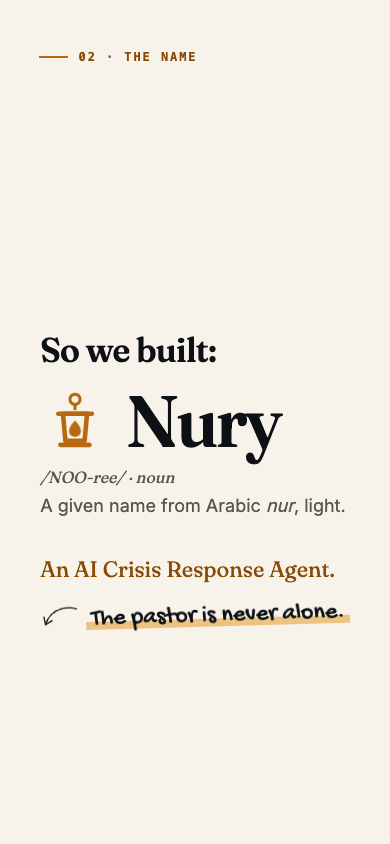
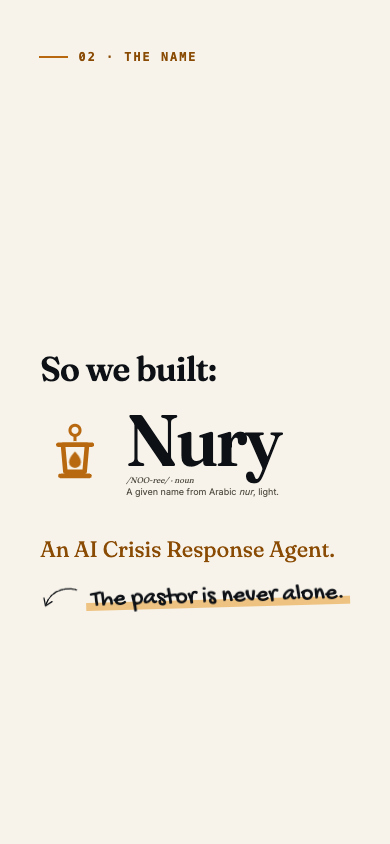
Short deck slide 2: dictionary lines 50 percent smaller, aligned under the word Nury

Changed region(s): [[0.0923, 0.4005, 0.8923, 0.7701]]

diff --git a/presentation/short/deck.html b/presentation/short/deck.html
@@ -175,8 +175,8 @@ body.clean .foot{visibility:hidden}@media print{#idx{display:none!important}}
 .v2.nm .word{font:600 clamp(72px,11vw,190px)/.95 var(--serif);letter-spacing:-.03em;margin:0}
 .v2.nm .tagl{font:400 clamp(22px,2.6vw,48px)/1.2 var(--serif);margin:20px 0 0;color:var(--amber-text)}.v2.nm .wrap{margin-top:12vh}
 .v2.nm .tagline-line{font:400 clamp(18px,2.2vw,44px)/1.3 var(--sans);color:var(--muted);margin:0}
-.v2.nm .word,.v2.nm .tagl,.v2.nm .tagline-line,.v2.nm .pron{opacity:0;animation:rise .45s ease-out forwards}.v2.nm .pron{font:italic 400 clamp(16px,1.9vw,38px)/1.2 var(--serif);color:var(--muted);margin:0}
-.v2.nm .word{animation-delay:.1s}.v2.nm .pron{animation-delay:.5s}.v2.nm .tagline-line{animation-delay:.9s}.v2.nm .tagl{animation-delay:1.3s}.v2.nm .pron{margin-top:-.8vh}.v2.nm .tagline-line{margin-top:-1.4vh}
+.v2.nm .word,.v2.nm .tagl,.v2.nm .tagline-line,.v2.nm .pron{opacity:0;animation:rise .45s ease-out forwards}.v2.nm .wcol{display:flex;flex-direction:column;align-items:flex-start}.v2.nm .pron{font:italic 400 clamp(8px,.95vw,19px)/1.2 var(--serif);color:var(--muted);margin:0}
+.v2.nm .word{animation-delay:.1s}.v2.nm .pron{animation-delay:.5s}.v2.nm .tagline-line{animation-delay:.9s}.v2.nm .tagl{animation-delay:1.3s}.v2.nm .pron{margin-top:.2vh}.v2.nm .tagline-line{margin-top:.1vh;font-size:clamp(9px,1.1vw,22px)}
 .v2.nm .lantern .flame{animation-delay:.5s}.v2.nm .lantern .body{animation-delay:.5s}
 .v2.nm .lbl{left:10vw;top:6vh}
 @media (prefers-reduced-motion:reduce){.v2.nm .word,.v2.nm .tagl,.v2.nm .tagline-line,.v2.nm .pron{opacity:1;animation:none}}
@@ -338,9 +338,7 @@ body.short .v2 .film svg{width:clamp(36px,4vw,72px);fill:var(--amber)}
 <p class="lbl">02 · The name</p>
 <div class="wrap">
 <h2 class="hd">So we built:</h2>
-<div class="head"><div class="lantern small"><svg xmlns="http://www.w3.org/2000/svg" viewBox="0 0 64 64" role="img" aria-label="Nury lantern mark"><g fill="#b8680f" stroke="#b8680f"><path class="body" fill="none" stroke-width="4.2" stroke-linejoin="round" d="M21 25.4 H43 L40.8 50 H23.2 Z"/><path class="body" fill="none" stroke-width="4.2" stroke-linecap="round" d="M16.6 25.4 H47.4 M18.6 53.8 H45.4"/><circle class="body" cx="32" cy="12.2" r="4.6" fill="none" stroke-width="2.8"/><path fill="none" stroke-width="2.8" d="M32 16.8 V22"/><path class="flame" stroke="none" d="M32 31.4 C35.8 35.6 37.4 38.4 37.4 41.2 A5.4 5.4 0 0 1 26.6 41.2 C26.6 38.4 28.2 35.6 32 31.4 Z"/></g></svg></div><h1 class="word">Nury</h1></div>
-<p class="pron">/NOO-ree/ &middot; noun</p>
-<p class="tagline-line">A given name from Arabic <i>nur</i>, light.</p>
+<div class="head"><div class="lantern small"><svg xmlns="http://www.w3.org/2000/svg" viewBox="0 0 64 64" role="img" aria-label="Nury lantern mark"><g fill="#b8680f" stroke="#b8680f"><path class="body" fill="none" stroke-width="4.2" stroke-linejoin="round" d="M21 25.4 H43 L40.8 50 H23.2 Z"/><path class="body" fill="none" stroke-width="4.2" stroke-linecap="round" d="M16.6 25.4 H47.4 M18.6 53.8 H45.4"/><circle class="body" cx="32" cy="12.2" r="4.6" fill="none" stroke-width="2.8"/><path fill="none" stroke-width="2.8" d="M32 16.8 V22"/><path class="flame" stroke="none" d="M32 31.4 C35.8 35.6 37.4 38.4 37.4 41.2 A5.4 5.4 0 0 1 26.6 41.2 C26.6 38.4 28.2 35.6 32 31.4 Z"/></g></svg></div><div class="wcol"><h1 class="word">Nury</h1><p class="pron">/NOO-ree/ &middot; noun</p><p class="tagline-line">A given name from Arabic <i>nur</i>, light.</p></div></div>
 <p class="tagl">An AI Crisis Response Agent.</p>
 <p class="hand"><svg class="arrow flip" viewBox="0 0 90 64" aria-hidden="true"><path d="M5 10 C 34 4, 68 20, 74 54"/><path d="M60 44 L74 56 L80 38"/></svg><span class="hl">The pastor is never alone.</span></p></div>
 <aside class="notes">LANTERN. Criterion: Concept and Impact. The headline "So we built:", the lantern and name, the tagline, the dictionary line and the tags build by themselves (about 2.4 s). Press Space once: the handwritten note "The pastor is never alone." Brand line locked: An AI Crisis Response Agent. Do not say her name here: it appears once, in the small note on the Close slide. Pronunciation /NOO-ree/. Name origin: Arabic nur, "light" (sources in presentation/NAME_ENTRY.md).</aside></section>
